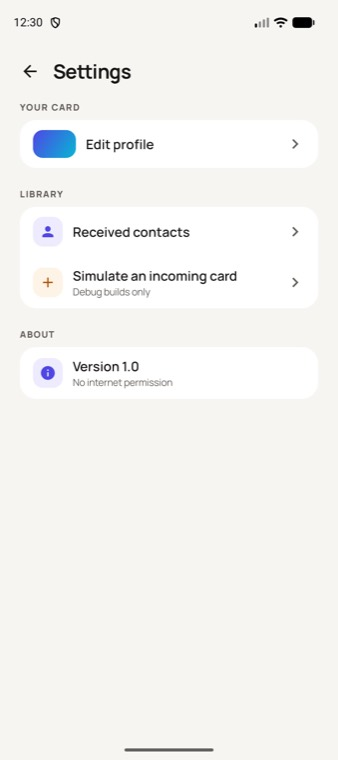
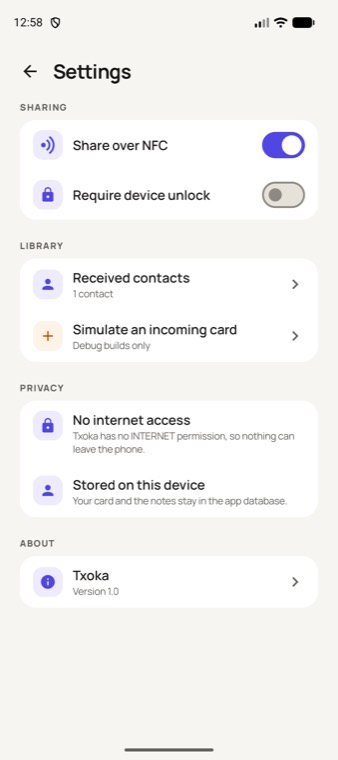
docs: document the new settings and about screens

diff --git a/README.md b/README.md
@@ -12,8 +12,10 @@ receive. Everything stays on the device: no backend, no account and no `INTERNET
   to be unlocked before the card is served.
 - **Receiving.** Tap a Txoka phone (or any NDEF tag with a `text/vcard` record) and the card opens
   for confirmation before it is stored.
-- **Received contacts.** Searchable list, editable notes, call, email, add to the system contacts
-  app and delete. Duplicates are detected by normalised phone or email.
+- **Received contacts.** Searchable list grouped by date, editable notes, call, email, add to the
+  system contacts app and delete. Duplicates are detected by normalised phone or email.
+- **Settings.** Sharing switches, the received library, a plain-language privacy section and a
+  separate About screen with the version, credits and open source licences.
 - **Debug demo.** In debug builds, Settings offers *Simulate an incoming card*, which runs a demo
   card through the real NDEF and vCard round trip. Useful on emulators, which have no NFC.
 

diff --git a/docs/design-proposal.md b/docs/design-proposal.md
@@ -53,6 +53,10 @@ Real screenshots after the refresh (Pixel 9 emulator, light and dark):
 | --- | --- | --- | --- |
 | <img src="design/implemented-detail.jpg" width="200"> | <img src="design/implemented-sheet.jpg" width="200"> | <img src="design/implemented-settings.jpg" width="200"> | <img src="design/implemented-dark.jpg" width="200"> |
 
+| About | Licences |
+| --- | --- |
+| <img src="design/implemented-about.jpg" width="200"> | <img src="design/implemented-licences.jpg" width="200"> |
+
 ## 1. Why it looks unfinished
 
 1. **No design system.** Each screen picks its own paddings (16/24 dp), shapes and sizes. There is
